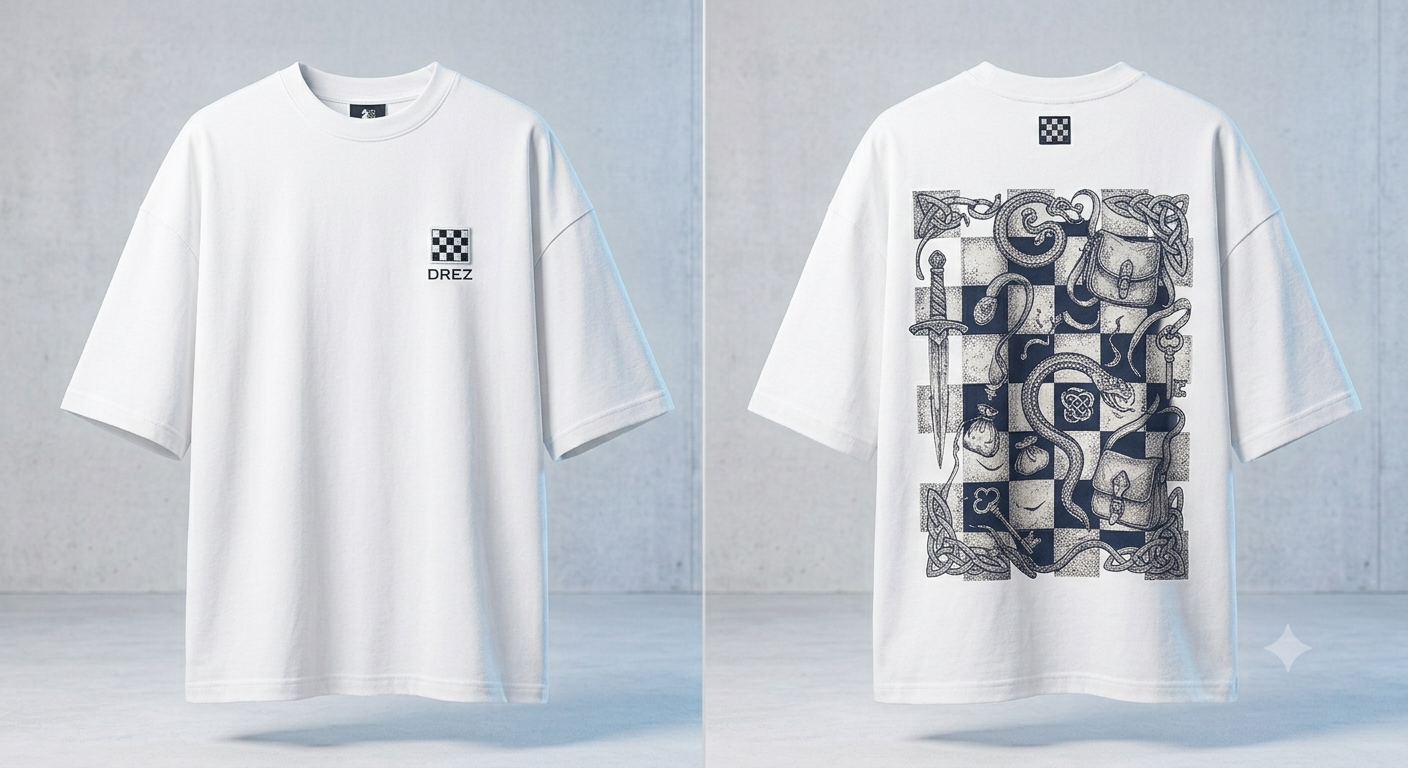
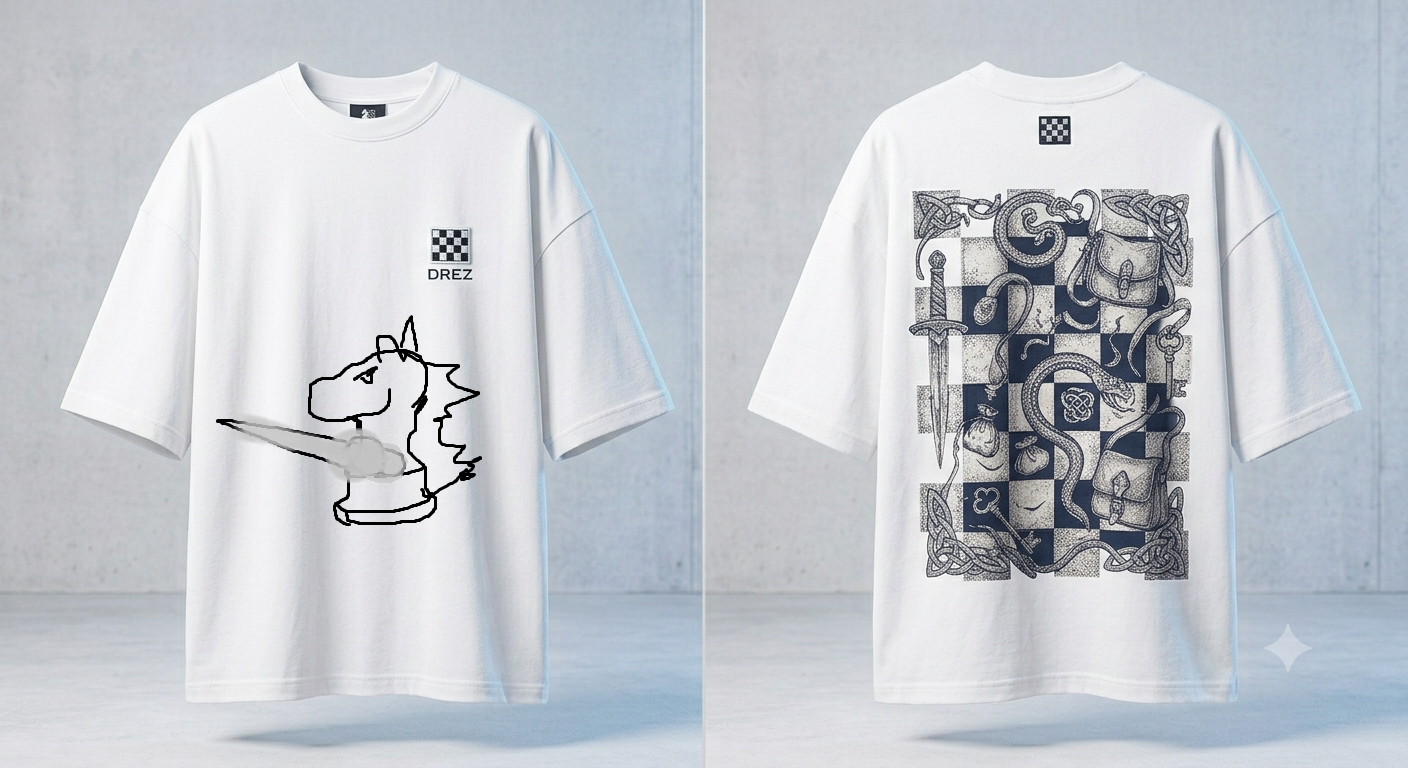
MECANÍSMOS CSS LISTADOS E ADICIONADOS

Changed region(s): [[0.1562, 0.4062, 0.3438, 0.6875]]

diff --git a/css/style.css b/css/style.css
@@ -1,40 +1,175 @@
 @import url('https://fonts.googleapis.com/css2?family=Roboto:ital,wght@0,100..900;1,100..900&display=swap');
+
 /*DEFINE COFIGURAÇÕES EM TODOS OS ELEMENTOS*/
-*{
+* {
     margin: 0px;
     padding: 0px;
     box-sizing: border-box;
     font-family: system-ui, -apple-system, BlinkMacSystemFont, 'Segoe UI', Roboto, Oxygen, Ubuntu, Cantarell, 'Open Sans', 'Helvetica Neue', sans-serif;
 }
+
 /*CRIANDO VARIÁVEIS*/
-:root{
-    --cor01: #364669;
+:root {
+    --cor01: #4c608f;
     --cor02: #ffffff;
     --cor03: #000000;
+    --cor04: #ebebeb;
 
 }
 
 /*FORMATANDO A TAG main PELO ID geral*/
-#geral{
+#geral {
+    width: 100%;
     margin: 20px;
+    display: flex;
+    flex-direction: column;
+    align-items: center;
+    justify-content: center;
 }
 
 /*FORMARANDO O CABEÇALHO*/
-#cabecalho{
+#cabecalho {
+    width: 100%;
     display: flex;
     justify-content: space-between;
     align-items: center;
     padding: 0px 20px;
-    height: 100px;
+    height: 120px;
 }
+
+#logo{
+    font-weight: bold;
+}
+
 /*CONFIGURANDO NA HORIZONTAL(MENU)*/
-#menu ul{
+#menu ul {
     display: flex;
     gap: 30px;
     list-style: none;
 }
 
-#menu ul img{
+#menu ul img {
     height: 25px;
-    
+
+}
+
+/*FORMATANDO A SETION pesquisa*/
+#pesquisa {
+    width: 100%;
+    height: 100px;
+    background-color: var(--cor02);
+    display: flex;
+    justify-content: center;
+    align-items: center;
+}
+
+#pesquisa input {
+    width: 600px;
+    height: 50px;
+    background-color: var(--cor04);
+    border-radius: 8px;
+    padding: 10px;
+}
+
+/*FORMATANDO OS CARDS*/
+#cards {
+    display: grid;
+    grid-template-columns: repeat(auto-fit, minmax(250px, 1fr));
+    gap: 20px;
+    margin: 20px 0px;
+    width: 1000px;
+    min-height: 800px;
+}
+
+.card {
+    width: 250px;
+    min-height: 350px;
+    padding: 5px;
+    display: flex;
+    flex-direction: column;
+    align-items: center;
+    justify-content: center;
+    border: 2px solid var(--cor01);
+    border-radius: 6px;
+}
+
+.card :hover{
+    transform: translateY(-5px);
+}
+
+.card img {
+    width: 150px;
+    height: 200px;
+    margin: 10px 0px;
+
+}
+
+.card p {
+    font-size: 1.2em;
+    text-transform: uppercase;
+    margin: 20px 0px;
+}
+
+.card h2 {
+    color: var(--cor01);
+}
+
+.card button {
+    width: 200px;
+    height: 35px;
+    margin: 20px;
+    border: none;
+    border-radius: 5px;
+    background-color: #7f8ca8;
+    text-transform: uppercase;
+    letter-spacing: 5px;
+    font-weight: bold;
+    cursor: pointer;
+    border: 2px solid var(--cor01) ;
+}
+
+/* FORMATANDO O RODAPÉ */
+#rodape{
+    width: 100%;
+    height: 250px;
+    margin: 20px 0px;
+    padding: 10px;
+    display: flex;
+    flex-direction: column;
+    align-items: center;
+    justify-content: center;
+    color: rgb(255, 255, 255);
+    background-color: #000000;
+}
+
+/* FORMATANDO LINKS */
+#menu a:link{
+    font-size: 0.9em;
+    text-transform: uppercase;
+    letter-spacing: 5px;
+    text-decoration: none;
+    color: #111111;
+    border: #000000 1px solid;
+    border-radius: 6px;
+}
+#menu a:visited{
+    font-size: 2em;
+    text-transform: uppercase;
+    letter-spacing: 5px;
+    text-decoration: none;
+    color: #121524;
+}
+#menu a:hover{
+    font-size: 2em;
+    text-transform: uppercase;
+    letter-spacing: 5px;
+    text-decoration: none;
+    color: #ff0000;
+}
+#menu a:active{
+    font-size: 2em;
+    text-transform: uppercase;
+    letter-spacing: 5px;
+    text-decoration: none;
+    color: #586d94;
 }

diff --git a/index.html b/index.html
@@ -15,14 +15,14 @@
     <main id="geral">
         <header id="cabecalho">
             <div id="logo">
-                SUA LOJA
+                DREZZ
             </div>
 
             <nav id="menu">
                 <ul>
                     <li><a href="paginas/cadastro.html">Cadastro</a></li>
                     <li><a href="paginas/sobre.html">Sobre</a></li>
-                    <li><a href="paginas/login.html"></a>Login</li>
+                    <li><a href="paginas/login.html">Login</a></li>
                     <li><a href="paginas/carrinho.html"><img src="imagens/icones/carrinho.png" alt=""></a></li>
                 </ul>
             </nav>
@@ -30,7 +30,7 @@
         </header>
 
         <section id="pesquisa">
-            <input type="text" name="pesquisa" id="pesquisa" class="input-pesquisa">
+            <input type="text" name="pesquisa" id="pesquisa" class="input-pesquisa" placeholder="Procure seu produto">
         </section>
 
         <section id="cards">
@@ -38,57 +38,63 @@
                 <img src="imagens/camisa (1).png" alt="camisa1">
                 <p>Blazer</p>
                 <h2>R$ 140,00</h2>
+                <button class="btn-add">ADICIONAR</button>
             </div>
-            
-        <section id="cards">
+
+
             <div class="card">
-                <img src="imagens/camisa (1).png" alt="camisa1">
+                <img src="imagens/camisa (2).png" alt="camisa1">
                 <p>Blazer</p>
                 <h2>R$ 140,00</h2>
+                <button class="btn-add">ADICIONAR</button>
             </div>
-            
-        <section id="cards">
+
+
             <div class="card">
-                <img src="imagens/camisa (1).png" alt="camisa1">
+                <img src="imagens/camisa (8).png" alt="camisa1">
                 <p>Blazer</p>
                 <h2>R$ 140,00</h2>
+                <button class="btn-add">ADICIONAR</button>
             </div>
-            
-        <section id="cards">
+
             <div class="card">
-                <img src="imagens/camisa (1).png" alt="camisa1">
+                <img src="imagens/camisa (10).png" alt="camisa1">
                 <p>Blazer</p>
                 <h2>R$ 140,00</h2>
+                <button class="btn-add">ADICIONAR</button>
             </div>
-            
-        <section id="cards">
+
             <div class="card">
-                <img src="imagens/camisa (1).png" alt="camisa1">
+                <img src="imagens/camisa (14).png" alt="camisa1">
                 <p>Blazer</p>
                 <h2>R$ 140,00</h2>
+                <button class="btn-add">ADICIONAR</button>
             </div>
-            
-        <section id="cards">
+
+
             <div class="card">
-                <img src="imagens/camisa (1).png" alt="camisa1">
+                <img src="imagens/camisa (13).png" alt="camisa1">
                 <p>Blazer</p>
                 <h2>R$ 140,00</h2>
+                <button class="btn-add">ADICIONAR</button>
             </div>
-            
-        <section id="cards">
+
+
             <div class="card">
-                <img src="imagens/camisa (1).png" alt="camisa1">
+                <img src="imagens/camisa (12).png" alt="camisa1">
                 <p>Blazer</p>
                 <h2>R$ 140,00</h2>
+                <button class="btn-add">ADICIONAR</button>
             </div>
-            
-        <section id="cards">
+
+
             <div class="card">
-                <img src="imagens/camisa (1).png" alt="camisa1">
+                <img src="imagens/camisa (11).png" alt="camisa1">
                 <p>Blazer</p>
                 <h2>R$ 140,00</h2>
+                <button class="btn-add">ADICIONAR</button>
             </div>
-            
+
         </section>
         <footer id="rodape">
             <h2>&copy 2026 DREZ - A força da peça está na mente de quem joga.</h2>